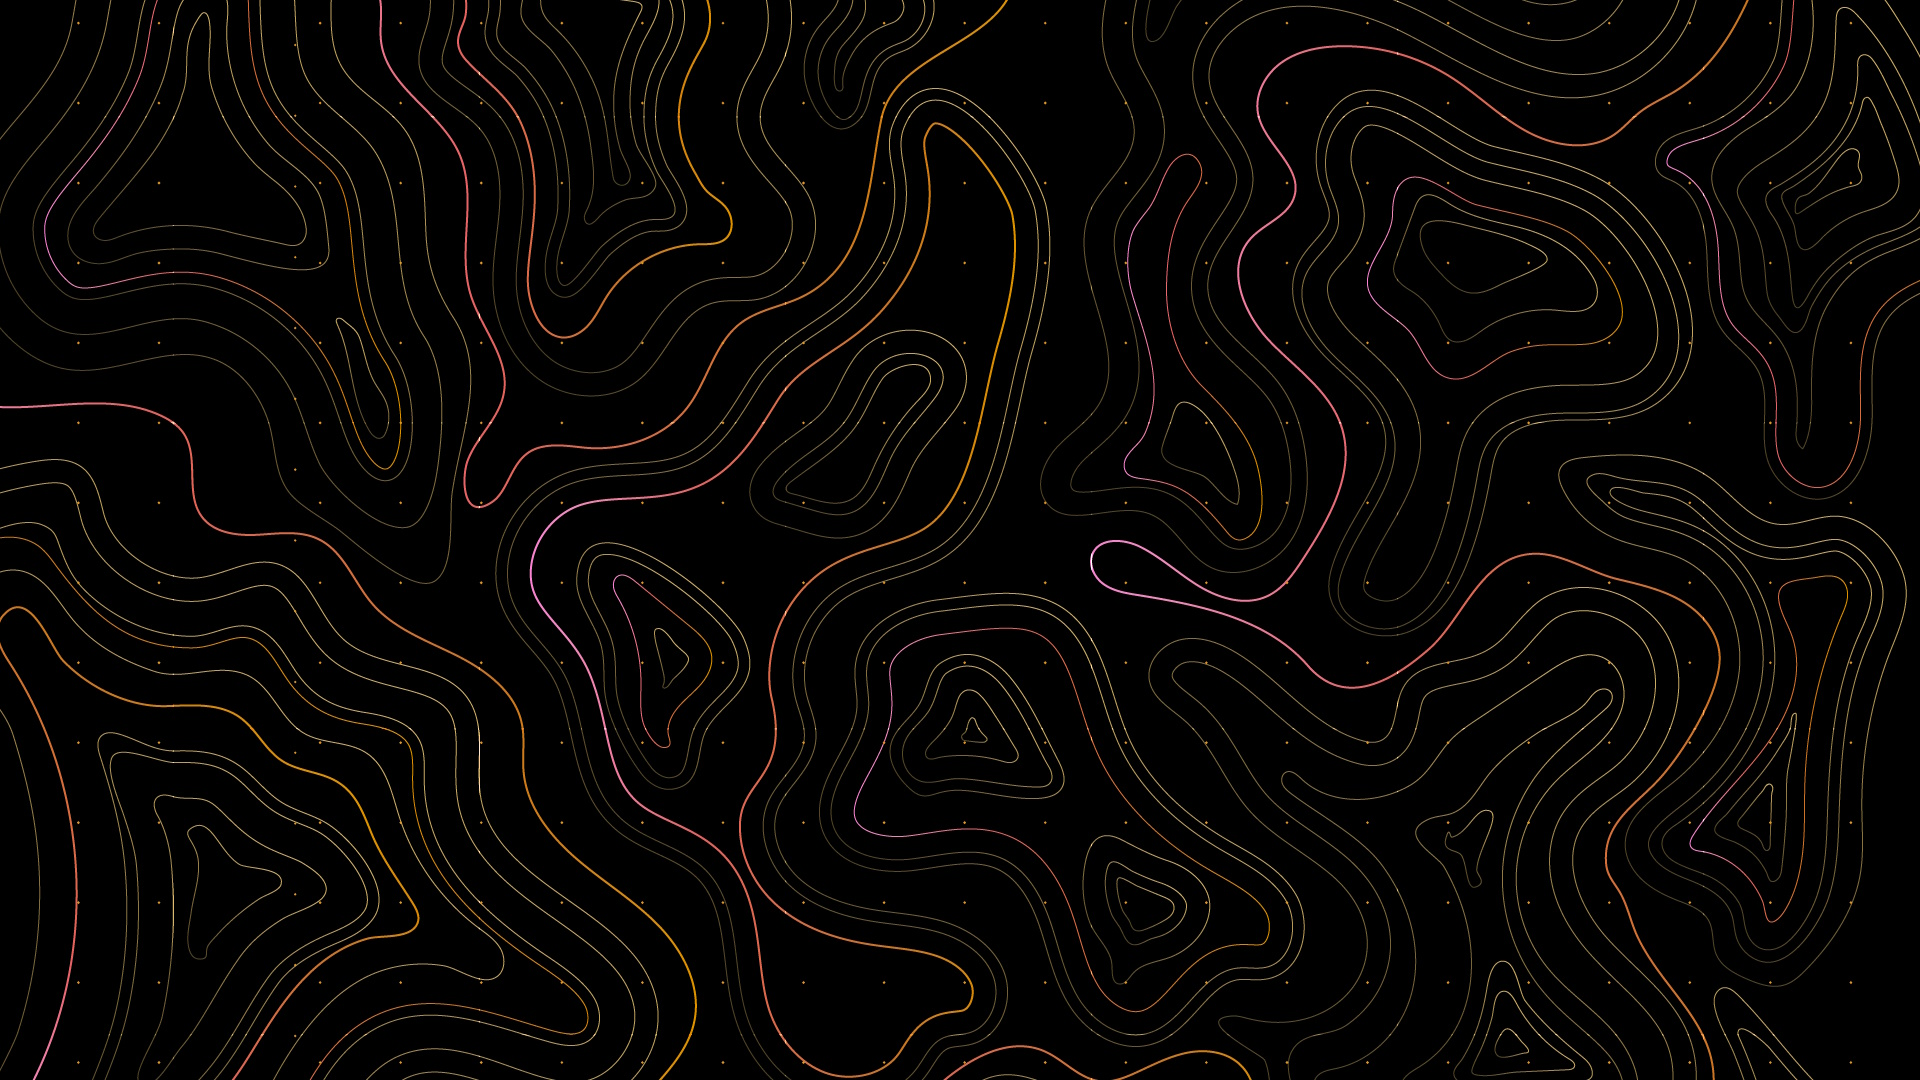
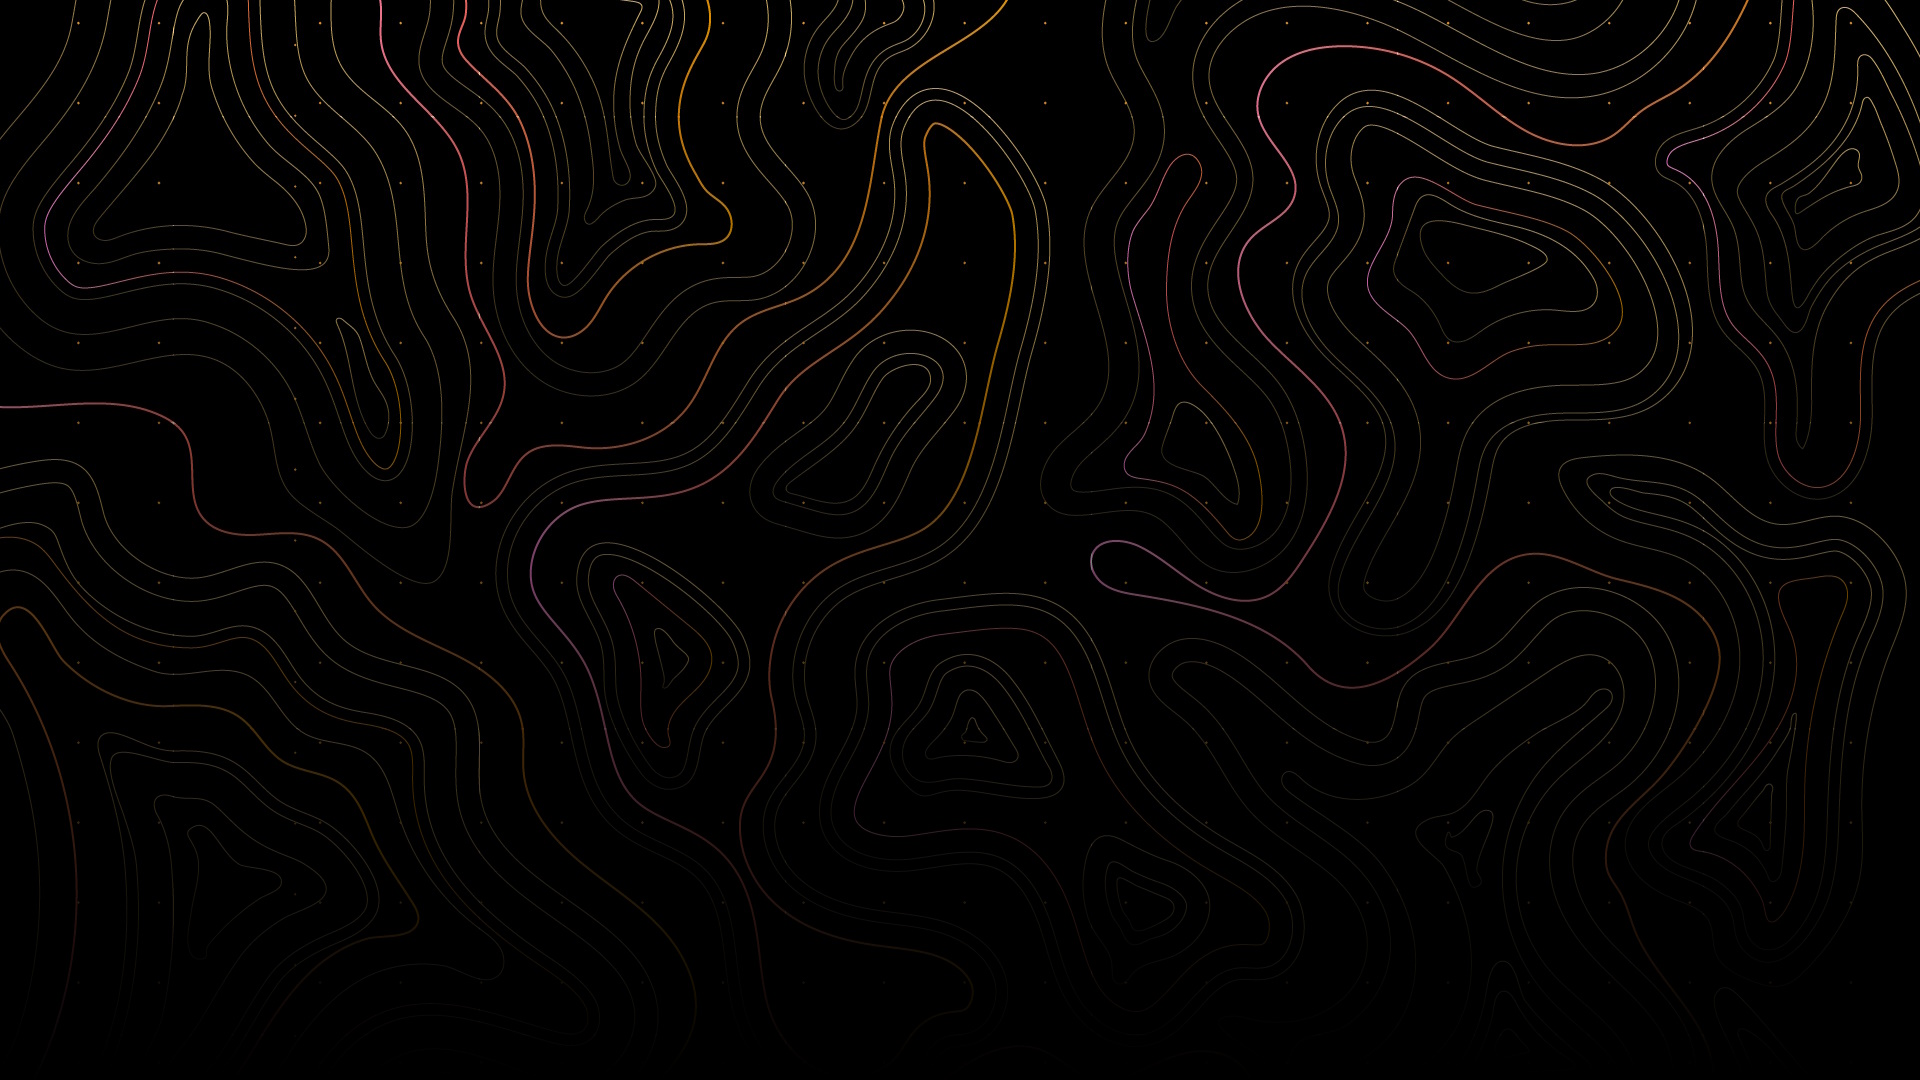
faded bg + better buttons

diff --git a/index.html b/index.html
@@ -13,13 +13,13 @@
     <script src="https://cdn.tailwindcss.com"></script>
     <title>Starfall</title>
 </head>
-<body class="scrollbar-thin scrollbar-thumb-[rgb(31,32,35)] scrollbar-track-[#121316] bg-black bg-[url(bg.jpg)]"
+<body class="scrollbar-thin scrollbar-thumb-[rgb(31,32,35)] scrollbar-track-[#121316] bg-black bg-[url(bg.jpg)] bg-no-repeat"
   commit-hash="67bf7bbaae8b7a490e82d23a08ba3614f1698a3a">
   <div class="flex flex-col items-center snap-mandatory snap-y">
     <div class="flex justify-center sticky top-0 w-full z-50">
       <nav
         class="backdrop-blur-2xl bg-material/50 border border-zinc-800 flex flex-grow flex-row items-center max-w-xl mt-4 mx-4 px-4 py-3 rounded-full shadow-md">
-        <a class=" duration-100 hover:bg-zinc-800 hover:border-zinc-700 p-1.5 rounded-full transition-colors" href="#">
+        <a class="duration-100 p-1.5 rounded-full transition-colors" href="#">
           <div class="flex items-center">
             <lord-icon class="h-10 w-10" src="https://cdn.lordicon.com/xhsumrcb.json" trigger="hover" colors="primary:#e88c30,secondary:#e8308c"></lord-icon>
             <h2 class="font-extrabold text-transparent bg-clip-text bg-gradient-to-r from-[#e88c30] to-[#e8308c]">Starfall</h2>
@@ -27,42 +27,28 @@
         </a>
         <div class="flex-grow"></div>
         <div class="flex justify-center mx-0.5 px-2.5 py-1.5 rounded-full space-x-[0.95rem]">
-          <a title="GitHub" href="https://github.com/winkado/" target="_blank"
-            class="duration-100 flex h-6 hover:text-white justify-center text-zinc-300 transition-colors w-6">
-            <svg fill="currentColor" viewBox="0 0 496 512">
-              <path
-                d="M165.9 397.4c0 2-2.3 3.6-5.2 3.6-3.3.3-5.6-1.3-5.6-3.6 0-2 2.3-3.6 5.2-3.6 3-.3 5.6 1.3 5.6 3.6zm-31.1-4.5c-.7 2 1.3 4.3 4.3 4.9 2.6 1 5.6 0 6.2-2s-1.3-4.3-4.3-5.2c-2.6-.7-5.5.3-6.2 2.3zm44.2-1.7c-2.9.7-4.9 2.6-4.6 4.9.3 2 2.9 3.3 5.9 2.6 2.9-.7 4.9-2.6 4.6-4.6-.3-1.9-3-3.2-5.9-2.9zM244.8 8C106.1 8 0 113.3 0 252c0 110.9 69.8 205.8 169.5 239.2 12.8 2.3 17.3-5.6 17.3-12.1 0-6.2-.3-40.4-.3-61.4 0 0-70 15-84.7-29.8 0 0-11.4-29.1-27.8-36.6 0 0-22.9-15.7 1.6-15.4 0 0 24.9 2 38.6 25.8 21.9 38.6 58.6 27.5 72.9 20.9 2.3-16 8.8-27.1 16-33.7-55.9-6.2-112.3-14.3-112.3-110.5 0-27.5 7.6-41.3 23.6-58.9-2.6-6.5-11.1-33.3 2.6-67.9 20.9-6.5 69 27 69 27 20-5.6 41.5-8.5 62.8-8.5s42.8 2.9 62.8 8.5c0 0 48.1-33.6 69-27 13.7 34.7 5.2 61.4 2.6 67.9 16 17.7 25.8 31.5 25.8 58.9 0 96.5-58.9 104.2-114.8 110.5 9.2 7.9 17 22.9 17 46.4 0 33.7-.3 75.4-.3 83.6 0 6.5 4.6 14.4 17.3 12.1C428.2 457.8 496 362.9 496 252 496 113.3 383.5 8 244.8 8zM97.2 352.9c-1.3 1-1 3.3.7 5.2 1.6 1.6 3.9 2.3 5.2 1 1.3-1 1-3.3-.7-5.2-1.6-1.6-3.9-2.3-5.2-1zm-10.8-8.1c-.7 1.3.3 2.9 2.3 3.9 1.6 1 3.6.7 4.3-.7.7-1.3-.3-2.9-2.3-3.9-2-.6-3.6-.3-4.3.7zm32.4 35.6c-1.6 1.3-1 4.3 1.3 6.2 2.3 2.3 5.2 2.6 6.5 1 1.3-1.3.7-4.3-1.3-6.2-2.2-2.3-5.2-2.6-6.5-1zm-11.4-14.7c-1.6 1-1.6 3.6 0 5.9 1.6 2.3 4.3 3.3 5.6 2.3 1.6-1.3 1.6-3.9 0-6.2-1.4-2.3-4-3.3-5.6-2z" />
-            </svg>
+          <a title="Discord" href="https://github.com/winkado" target="_blank" class="duration-100 flex h-6 hover:text-white justify-center text-zinc-300 transition-colors w-6">
+            <ion-icon class="text-2xl" name="logo-github"></ion-icon>
           </a>
-          <a title="Twitter" target="_blank" href="https://twitter.com/wink4do"
-            class="duration-100 flex h-6 hover:text-white justify-center text-zinc-300 transition-colors w-6">
-            <svg fill="currentColor" viewBox="0 0 512 512">
-              <path
-                d="M459.37 151.716c.325 4.548.325 9.097.325 13.645 0 138.72-105.583 298.558-298.558 298.558-59.452 0-114.68-17.219-161.137-47.106 8.447.974 16.568 1.299 25.34 1.299 49.055 0 94.213-16.568 130.274-44.832-46.132-.975-84.792-31.188-98.112-72.772 6.498.974 12.995 1.624 19.818 1.624 9.421 0 18.843-1.3 27.614-3.573-48.081-9.747-84.143-51.98-84.143-102.985v-1.299c13.969 7.797 30.214 12.67 47.431 13.319-28.264-18.843-46.781-51.005-46.781-87.391 0-19.492 5.197-37.36 14.294-52.954 51.655 63.675 129.3 105.258 216.365 109.807-1.624-7.797-2.599-15.918-2.599-24.04 0-57.828 46.782-104.934 104.934-104.934 30.213 0 57.502 12.67 76.67 33.137 23.715-4.548 46.456-13.32 66.599-25.34-7.798 24.366-24.366 44.833-46.132 57.827 21.117-2.273 41.584-8.122 60.426-16.243-14.292 20.791-32.161 39.308-52.628 54.253z" />
-            </svg>
           </a>
-          <a title="Patreon" target="_blank" href="https://www.patreon.com/sidestore"
-            class="duration-100 flex h-6 hover:text-white justify-center p-0.5 text-zinc-300 transition-colors w-6">
-            <svg fill="currentColor" viewBox="0 0 512 512">
-              <path
-                d="M512 194.8c0 101.3-82.4 183.8-183.8 183.8-101.7 0-184.4-82.4-184.4-183.8 0-101.6 82.7-184.3 184.4-184.3C429.6 10.5 512 93.2 512 194.8zM0 501.5h90v-491H0v491z" />
-            </svg>
+          <a title="X" href="https://twitter.com/wink4do" target="_blank" class="duration-100 flex h-6 hover:text-white justify-center text-zinc-300 transition-colors w-6">
+            <ion-icon class="text-2xl" name="logo-twitter"></ion-icon>
           </a>
-          <a title="Discord" href="https://discord.gg/sehGeBVgSb" target="_blank"
-            class="duration-100 flex h-6 hover:text-white justify-center text-zinc-300 transition-colors w-6"><svg
-              fill="currentColor" viewBox="0 0 640 512">
-              <path
-                d="M524.531 69.836a1.5 1.5 0 0 0-.764-.7A485.065 485.065 0 0 0 404.081 32.03a1.816 1.816 0 0 0-1.923.91 337.461 337.461 0 0 0-14.9 30.6 447.848 447.848 0 0 0-134.426 0 309.541 309.541 0 0 0-15.135-30.6 1.89 1.89 0 0 0-1.924-.91 483.689 483.689 0 0 0-119.688 37.107 1.712 1.712 0 0 0-.788.676C39.068 183.651 18.186 294.69 28.43 404.354a2.016 2.016 0 0 0 .765 1.375 487.666 487.666 0 0 0 146.825 74.189 1.9 1.9 0 0 0 2.063-.676A348.2 348.2 0 0 0 208.12 430.4a1.86 1.86 0 0 0-1.019-2.588 321.173 321.173 0 0 1-45.868-21.853 1.885 1.885 0 0 1-.185-3.126 251.047 251.047 0 0 0 9.109-7.137 1.819 1.819 0 0 1 1.9-.256c96.229 43.917 200.41 43.917 295.5 0a1.812 1.812 0 0 1 1.924.233 234.533 234.533 0 0 0 9.132 7.16 1.884 1.884 0 0 1-.162 3.126 301.407 301.407 0 0 1-45.89 21.83 1.875 1.875 0 0 0-1 2.611 391.055 391.055 0 0 0 30.014 48.815 1.864 1.864 0 0 0 2.063.7A486.048 486.048 0 0 0 610.7 405.729a1.882 1.882 0 0 0 .765-1.352c12.264-126.783-20.532-236.912-86.934-334.541ZM222.491 337.58c-28.972 0-52.844-26.587-52.844-59.239s23.409-59.241 52.844-59.241c29.665 0 53.306 26.82 52.843 59.239 0 32.654-23.41 59.241-52.843 59.241Zm195.38 0c-28.971 0-52.843-26.587-52.843-59.239s23.409-59.241 52.843-59.241c29.667 0 53.307 26.82 52.844 59.239 0 32.654-23.177 59.241-52.844 59.241Z" />
-            </svg></a>
+          <a title="Twitch" href="https://twitch.tv/wink4do" target="_blank" class="duration-100 flex h-6 hover:text-white justify-center text-zinc-300 transition-colors w-6">
+            <ion-icon class="text-2xl" name="logo-twitch"></ion-icon>
+          </a>
+          <a title="Discord" href="https://discord.gg/sehGeBVgSb" target="_blank" class="duration-100 flex h-6 hover:text-white justify-center text-zinc-300 transition-colors w-6">
+            <ion-icon class="text-2xl" name="logo-discord"></ion-icon>
+          </a>
         </div>
       </nav>
     </div>
     <div class="flex pt-40">
       <a href="epitome/index.html">
-        <button class="mr-12 text-white opacity-75 bg-gradient-to-r from-[#11215b] to-[#d100fe] h-[320px] w-[320px] rounded-2xl">Epitome</button>
+        <button class="mr-12 text-white opacity-75 hover:opacity-100 duration-300 bg-gradient-to-r from-[#11215b] to-[#d100fe] h-[320px] w-[320px] rounded-2xl">Epitome</button>
       </a>
       <a href="altstore/source.json">
-        <button class="opacity-75 bg-[url('altstore/icon.png')] h-[320px] w-[320px] rounded-2xl">AltStore</button>
+        <button class="opacity-75 hover:opacity-100 duration-300 bg-[url('altstore/icon.png')] h-[320px] w-[320px] rounded-2xl">AltStore</button>
       </a>
     </div>
 </body>
